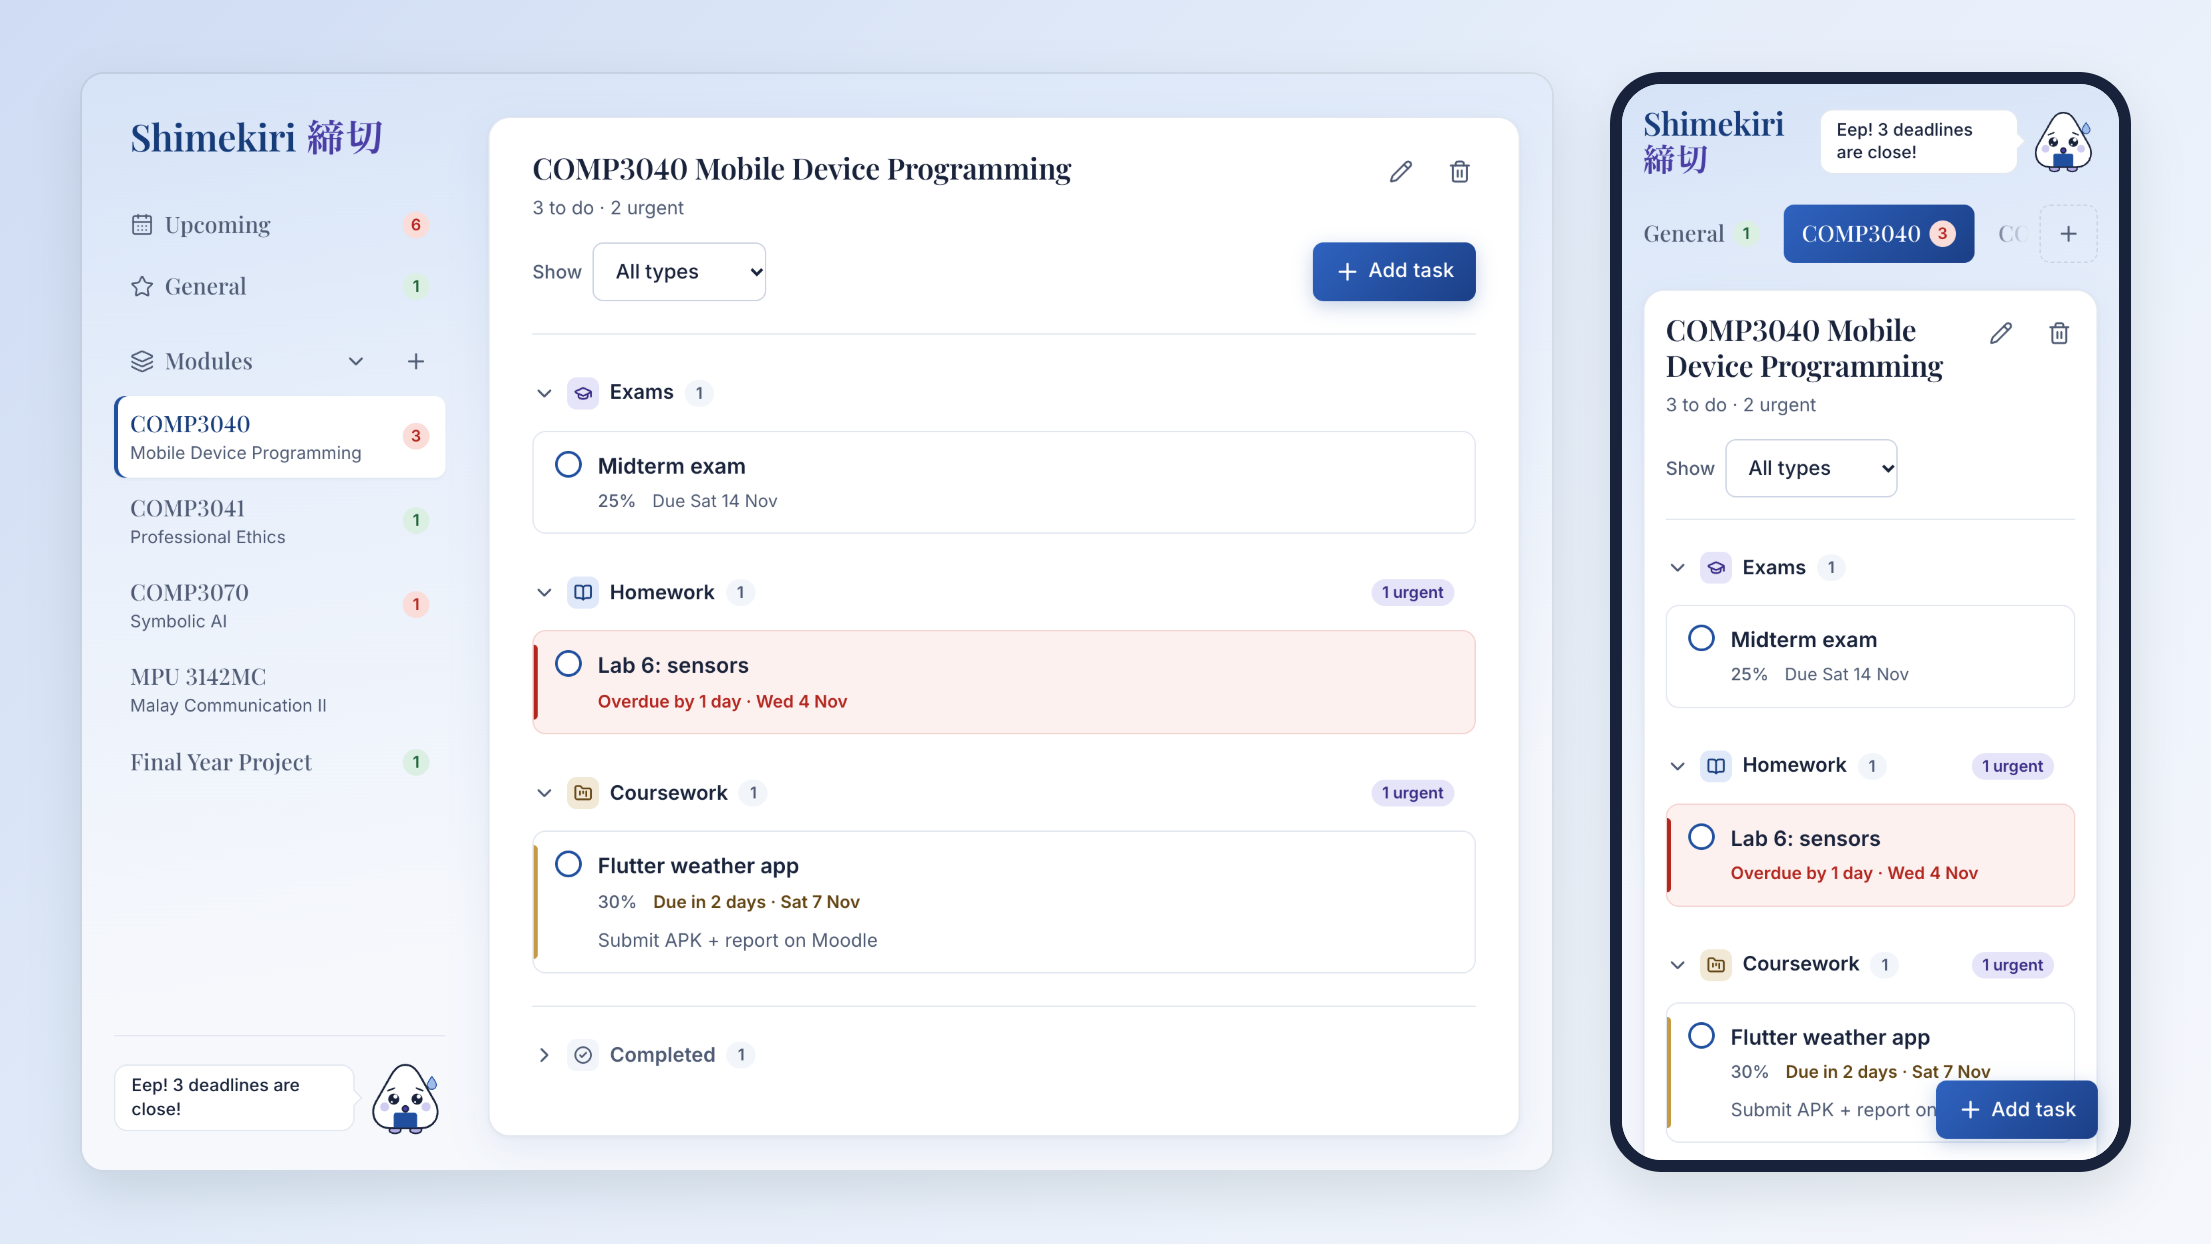
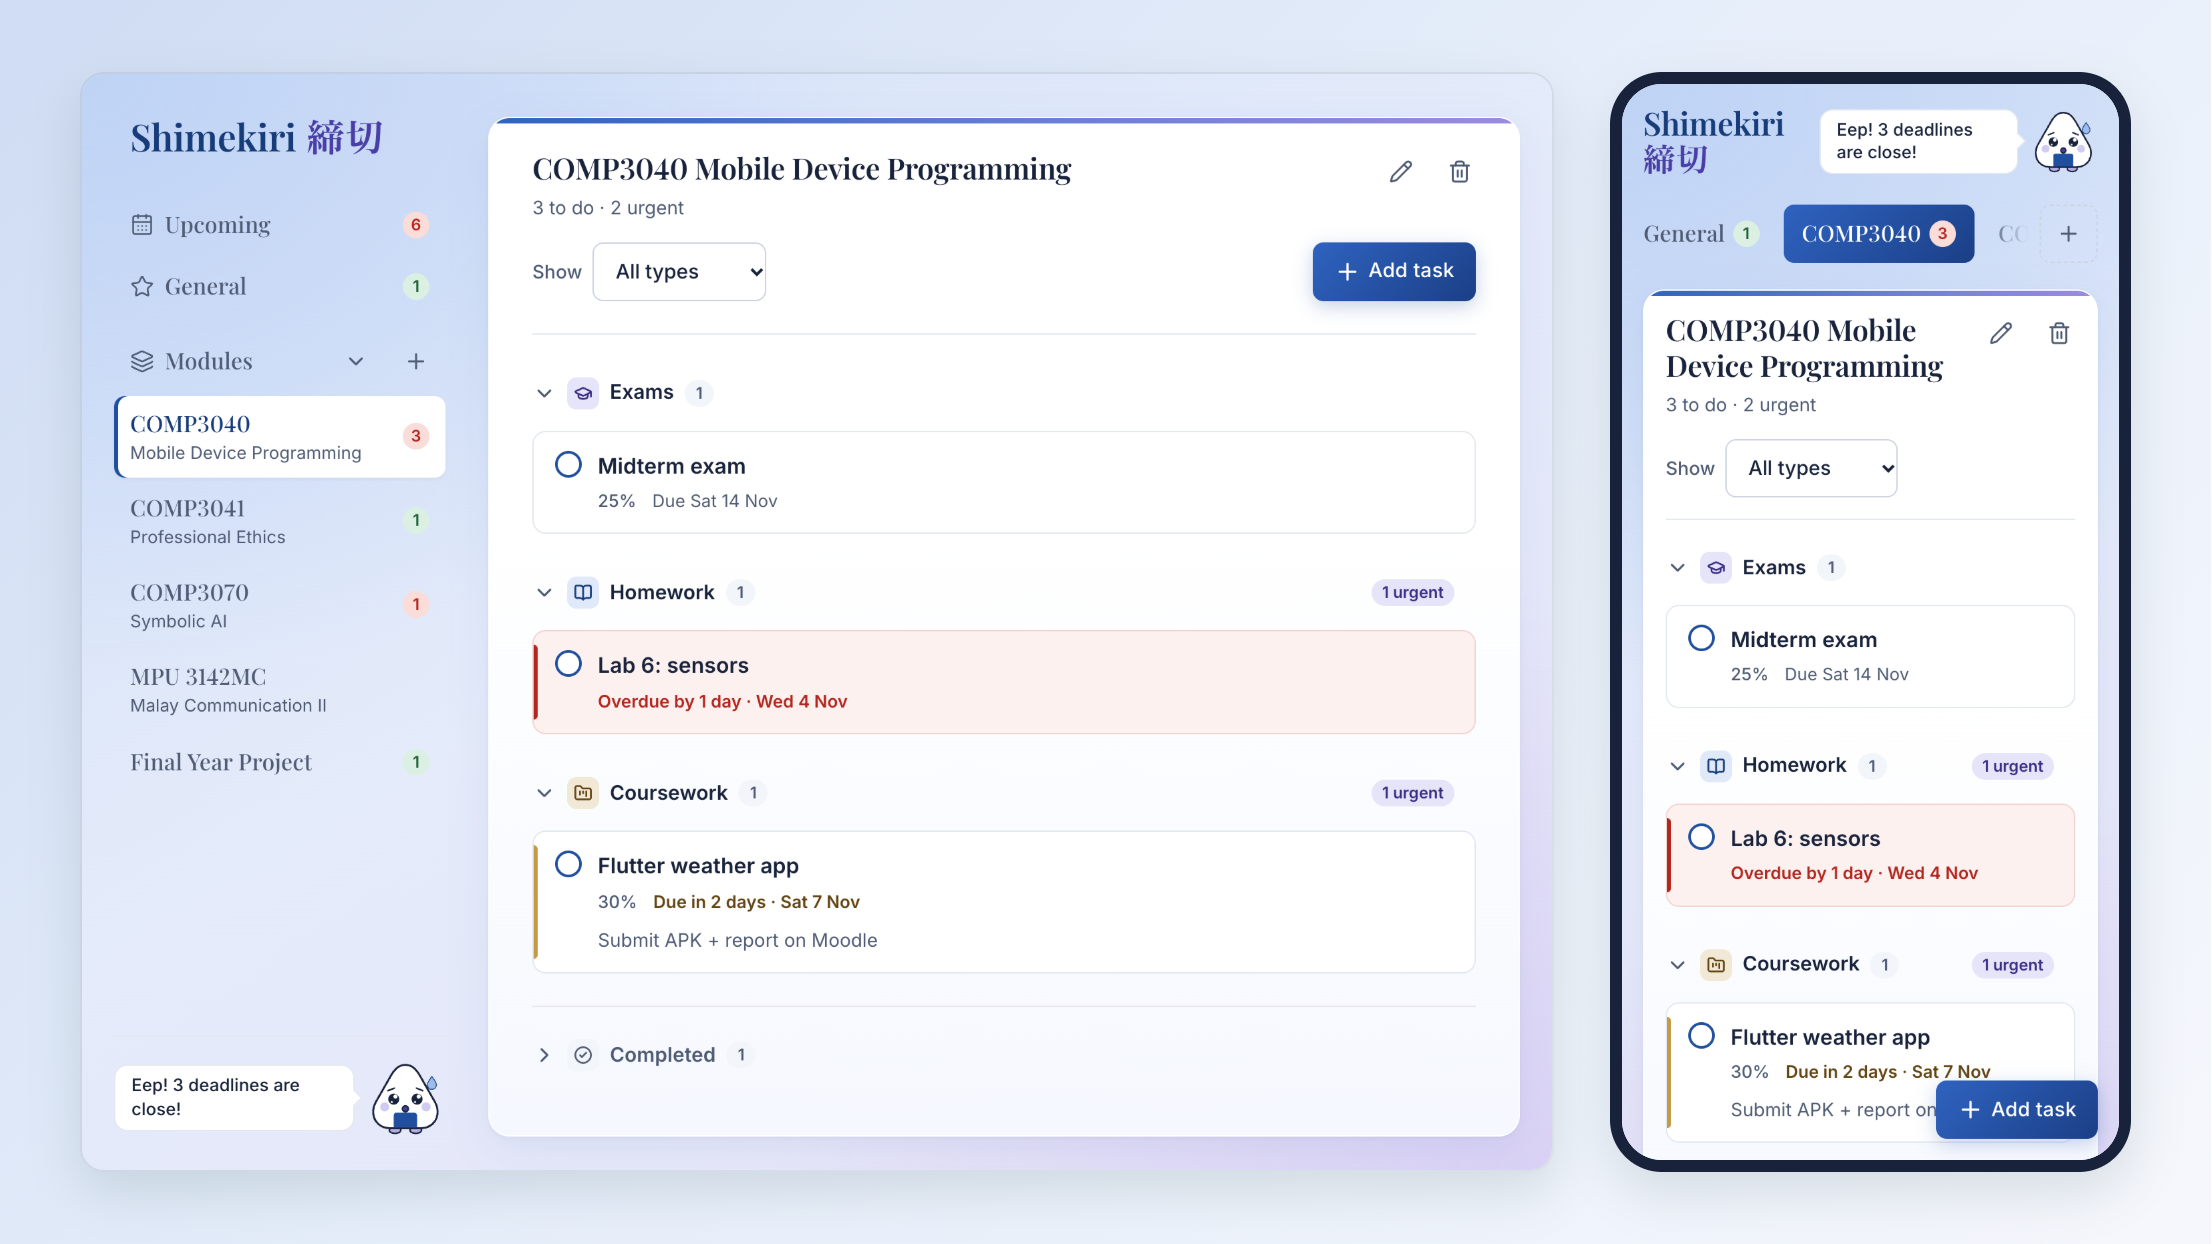
style: visible blue-to-lavender page gradient and gradient cards
Adds soft radial glows to the page background, a white-to-blue fade on cards
and dialogs, and a gradient accent strip along the top of the main card.

diff --git a/src/styles/tokens.css b/src/styles/tokens.css
@@ -9,8 +9,15 @@
   --paper: #ffffff;
   --paper-muted: #f2f5fa;
 
-  /* Page background: a quiet top-to-bottom blue wash. */
-  --gradient-page: linear-gradient(170deg, #d6e3f7 0%, #e9f0fb 32%, #f6f8fc 70%);
+  /* Page background: sky blue drifting into lavender, with two soft glows. */
+  --gradient-page:
+    radial-gradient(900px 700px at 0% 0%, #bfd3f5 0%, transparent 65%),
+    radial-gradient(900px 700px at 100% 100%, #d9d1f5 0%, transparent 65%),
+    linear-gradient(150deg, #d3e1f8 0%, #e4ebfa 45%, #e8e4f8 100%);
+  /* Cards: white fading to the faintest blue, so they sit in the page. */
+  --gradient-card: linear-gradient(180deg, #ffffff 0%, #ffffff 40%, #f5f8fe 100%);
+  /* Thin strip along the top of the main card. */
+  --gradient-strip: linear-gradient(90deg, #2f63c0 0%, #6a7fd6 55%, #9b8be0 100%);
   /* Primary buttons and the selected tab. */
   --gradient-accent: linear-gradient(135deg, #2f63c0 0%, #1b3f86 100%);
   --gradient-accent-hover: linear-gradient(135deg, #2756a9 0%, #15336f 100%);

diff --git a/src/App.module.css b/src/App.module.css
@@ -77,11 +77,22 @@
 }
 
 .panel {
+  position: relative;
+  overflow: hidden;
   padding: var(--space-5) var(--space-6) var(--space-6);
-  border: 1px solid var(--line);
+  border: 1px solid rgb(255 255 255 / 70%);
   border-radius: var(--radius-lg);
-  background: var(--paper);
+  background: var(--gradient-card);
   box-shadow: var(--shadow-md);
+}
+
+/* Gradient accent strip along the card's top edge. */
+.panel::before {
+  content: '';
+  position: absolute;
+  inset: 0 0 auto;
+  height: 4px;
+  background: var(--gradient-strip);
 }
 
 @media (max-width: 599px) {

diff --git a/src/components/Modal.module.css b/src/components/Modal.module.css
@@ -4,7 +4,7 @@
   padding: var(--space-5) var(--space-5) var(--space-4);
   border: 1px solid var(--line);
   border-radius: var(--radius-lg);
-  background: var(--paper);
+  background: var(--gradient-card);
   box-shadow: var(--shadow-lg);
   color: var(--ink);
 }
